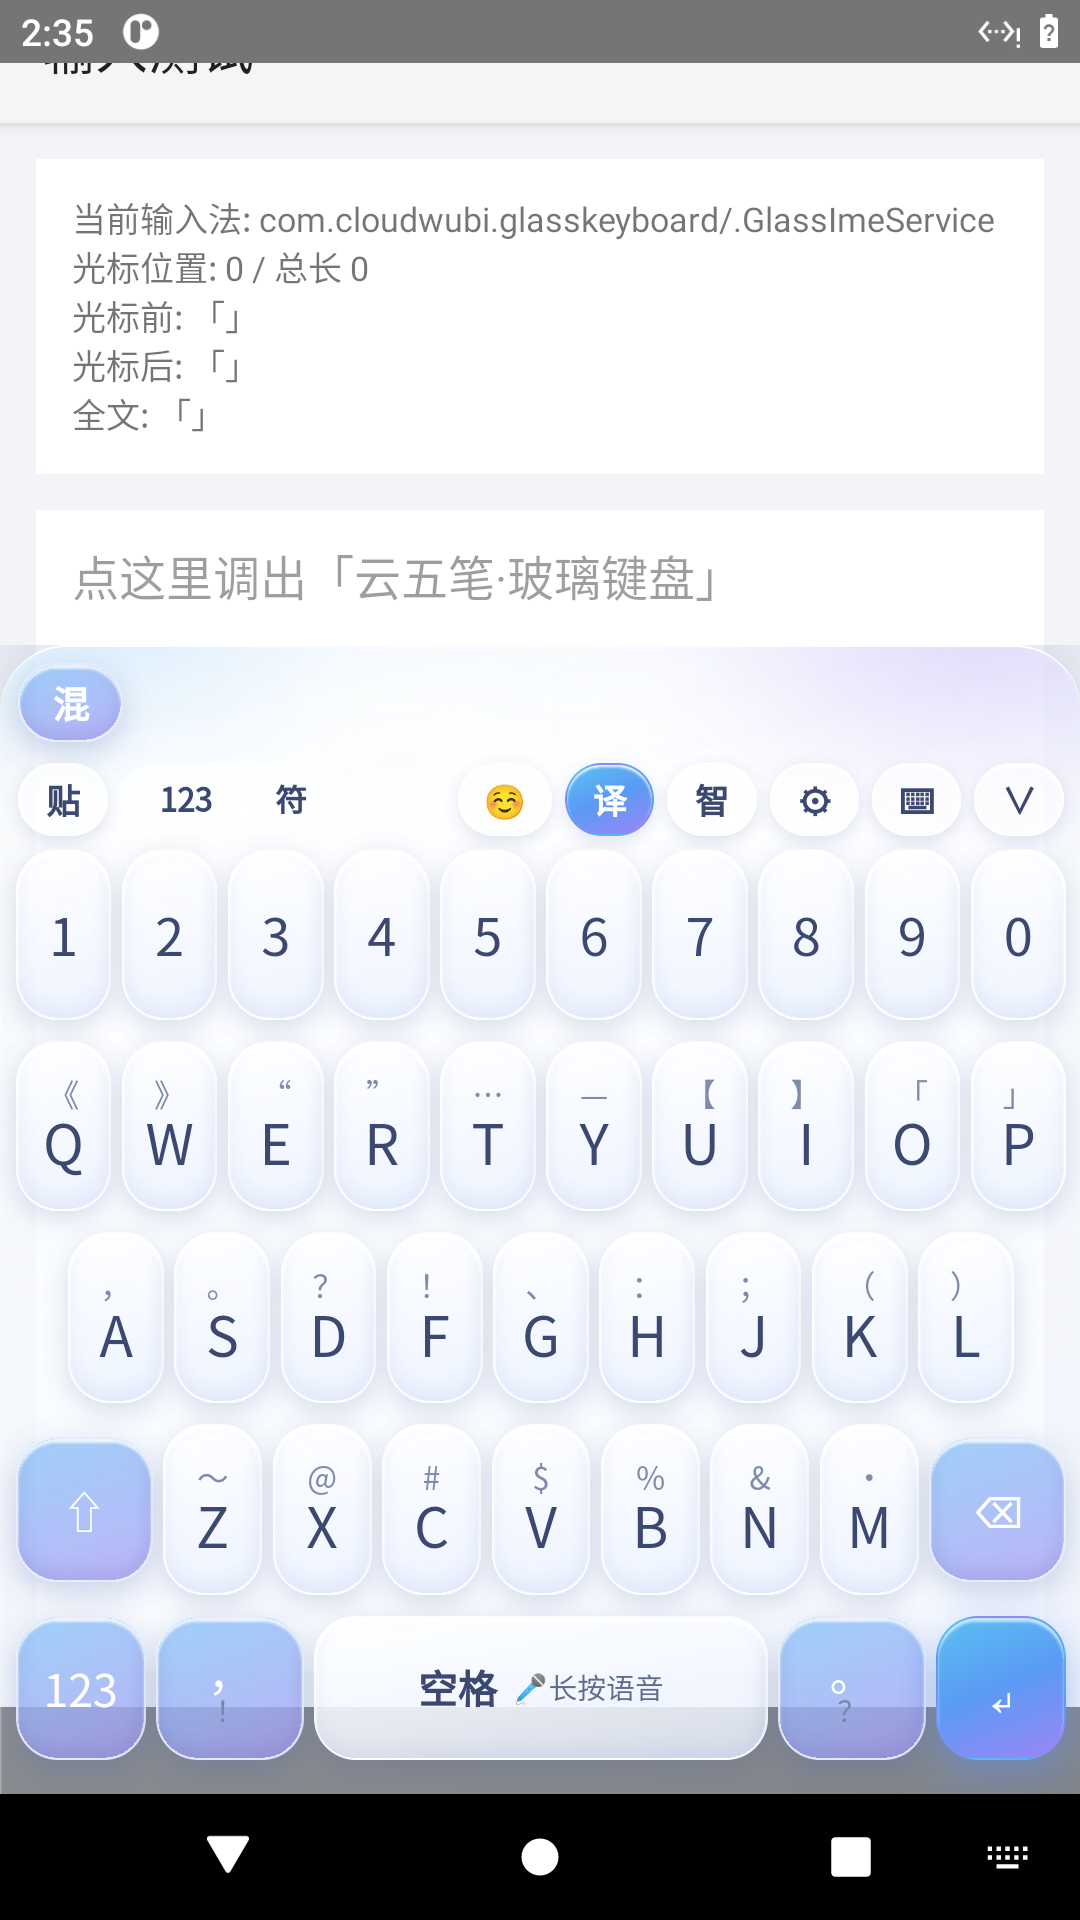
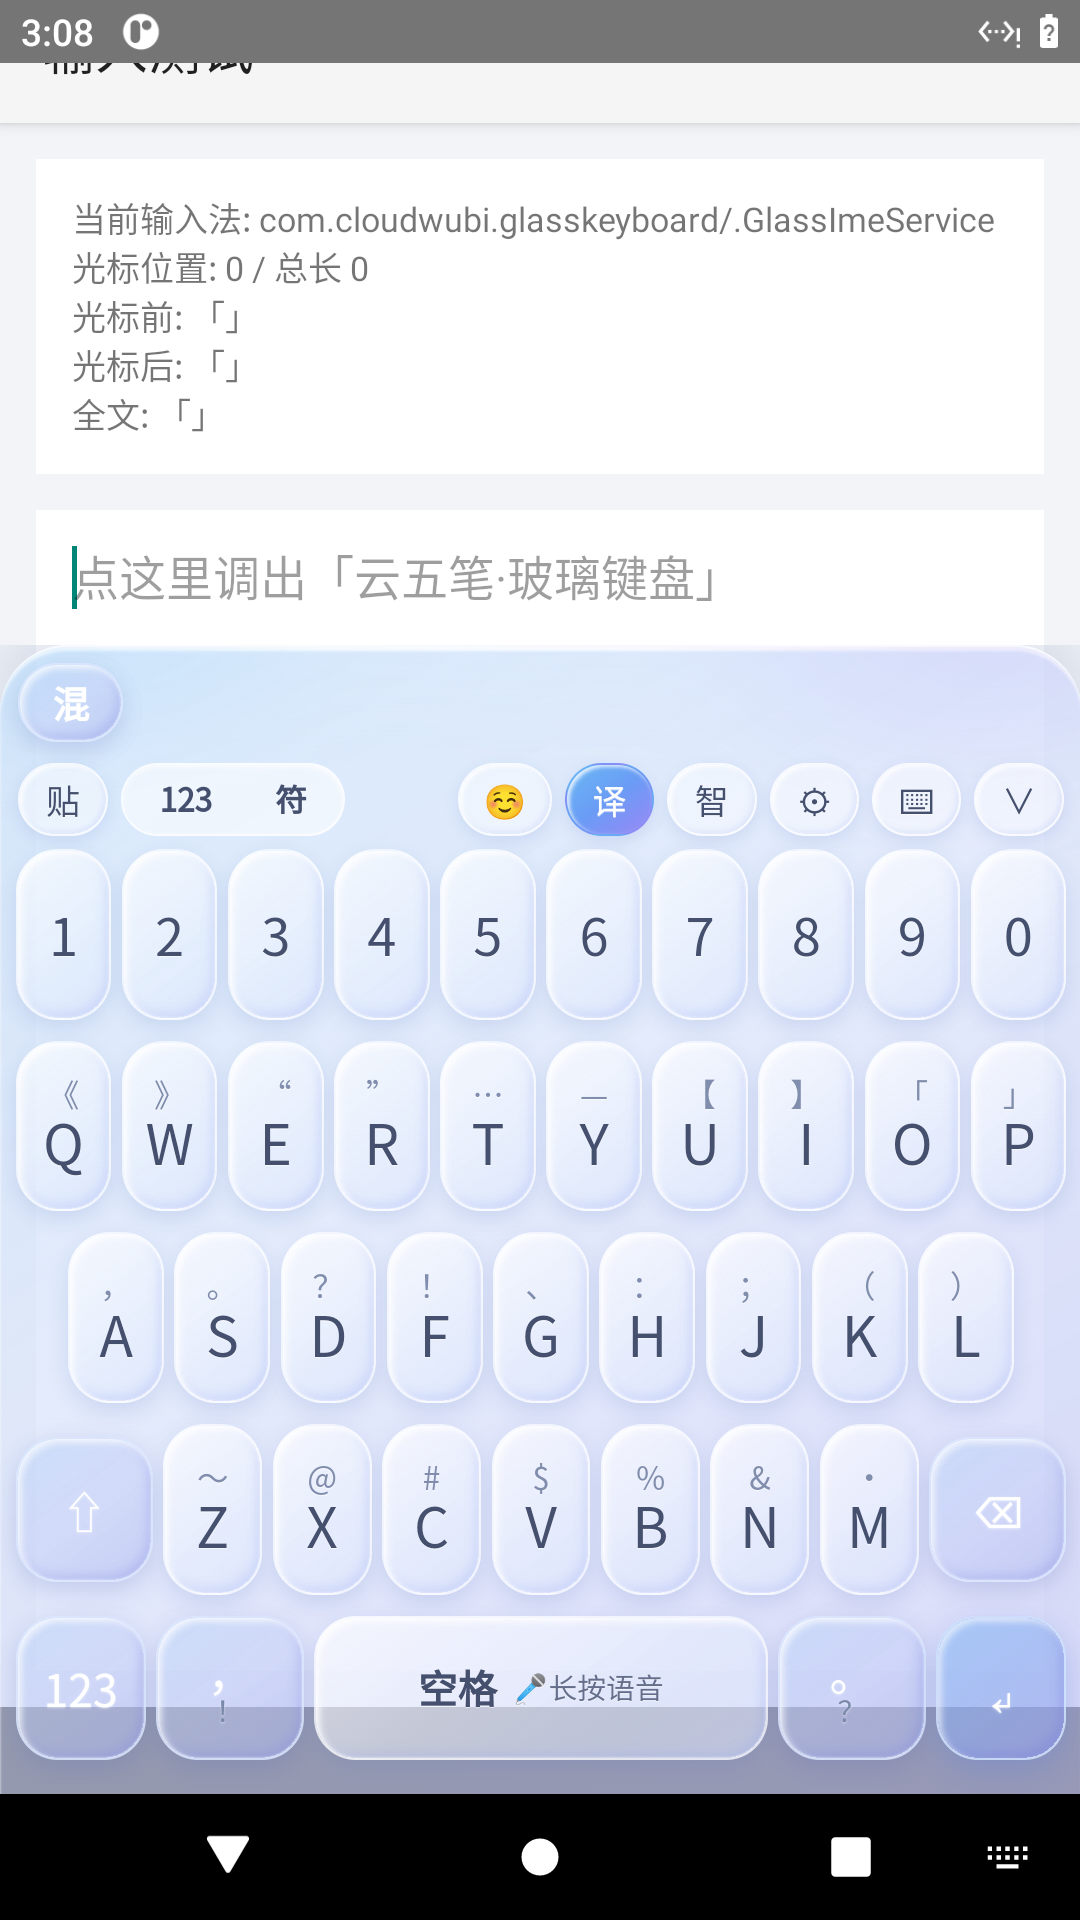
v2.3-lite: 按图一重做玻璃透光质感(一整块玻璃板切割，左上高光右下淡蓝紫透光)；候选/算式玻璃底板；修正低透明渐变SwiftShader不光栅化

diff --git a/app/src/main/assets/web/style.css b/app/src/main/assets/web/style.css
@@ -7,24 +7,49 @@ body { background: transparent; }
 button { border: none; background: none; font-family: inherit; cursor: pointer; color: inherit; touch-action: manipulation; }
 
 :root {
-  /* 浅色清透基底：半透明白，叠加后方 App 仍保持明亮；顶部亮描边 */
-  --kb-bg: linear-gradient(168deg, rgba(255,255,255,.66), rgba(238,244,255,.54));
-  --kb-border: rgba(255,255,255,.85);
-  /* 果冻白键：顶部更亮、底部淡蓝紫的高透渐变 */
-  --key-bg: linear-gradient(170deg, rgba(255,255,255,.94), rgba(234,241,255,.80));
-  --key-bg2: linear-gradient(170deg, rgba(226,237,255,.88), rgba(210,224,250,.74));
-  /* 功能键：淡蓝紫清透彩色玻璃，白字 */
-  --fn-bg: linear-gradient(160deg, rgba(140,198,248,.82), rgba(168,158,244,.76));
-  --fn-border: rgba(255,255,255,.7);
-  --key-fg: #3b4970;
-  --key-fg-soft: #7785a8;
+  /* v2.3 图一质感：一整块淡蓝→淡紫磨砂玻璃板，按键是不同透明度的玻璃切割，光源恒在左上 */
+  /* 整块键盘底板：左上淡蓝 → 右下淡紫的半透明磨砂渐变 */
+  --kb-bg: linear-gradient(150deg, rgba(201,226,250,.74) 0%, rgba(214,225,250,.68) 44%, rgba(204,206,247,.74) 100%);
+  --kb-border: rgba(255,255,255,.8);
+  /* 主键（字母/数字）：透明磨砂水晶，左上高光、右下透出淡蓝紫 */
+  --key-bg: linear-gradient(143deg,
+    rgba(255,255,255,.62) 0%,
+    rgba(247,250,255,.48) 40%,
+    rgba(229,238,253,.50) 72%,
+    rgba(221,229,252,.57) 100%);
+  --key-bg2: linear-gradient(143deg, rgba(228,239,252,.52) 0%, rgba(208,222,248,.50) 100%);
+  /* 功能键：同色系稍深一档的淡蓝紫玻璃（仍透明），白字细线条 */
+  --fn-bg: linear-gradient(143deg,
+    rgba(182,210,247,.50) 0%,
+    rgba(192,202,246,.46) 52%,
+    rgba(178,186,239,.56) 100%);
+  --fn-border: rgba(224,235,255,.72);
+  /* 回车/确认：再深半档的蓝紫玻璃（保持透明磨砂、光影一致） */
+  --enter-bg: linear-gradient(143deg, rgba(132,184,244,.62) 0%, rgba(150,160,236,.60) 100%);
+  --key-fg: #45506e;
+  --key-fg-soft: #7a88a9;
   --accent: #4a9bf0;
   --accent2: #5cc8f2;
-  --accent-grad: linear-gradient(158deg, #5cc0f2 0%, #5a9bf5 48%, #9a86f5 100%);
-  --line: rgba(150,170,220,.35);
-  --cand-bg: linear-gradient(170deg, rgba(255,255,255,.92), rgba(232,240,255,.76));
-  --shadow-key: 0 3px 10px rgba(70,90,150,.20), inset 0 1.5px 1px rgba(255,255,255,1), inset 0 -3px 7px rgba(120,140,210,.12);
-  --shadow-fn: 0 4px 12px rgba(80,100,170,.28), inset 0 1.5px 1px rgba(255,255,255,.8), inset 0 -3px 7px rgba(90,90,180,.18);
+  --accent-grad: linear-gradient(143deg, #6ab8f4 0%, #6a9cf5 50%, #9a86f5 100%);
+  --line: rgba(130,150,214,.32);
+  /* 候选 / 玻璃底板（非纯白） */
+  --cand-bg: linear-gradient(143deg, rgba(255,255,255,.44), rgba(224,234,252,.38));
+  --glass-bar: linear-gradient(143deg, rgba(255,255,255,.40), rgba(219,231,251,.36));
+  /* 统一玻璃阴影：底部同色悬浮投影 + 左上内高光 + 右下内透淡蓝紫 + 细亮内描边 */
+  --shadow-key:
+    0 3px 8px rgba(96,120,190,.18),
+    inset 1.5px 1.5px 2.5px rgba(255,255,255,.85),
+    inset -1.5px -2px 4px rgba(140,160,240,.22),
+    inset 0 0 0 .5px rgba(255,255,255,.34);
+  --shadow-fn:
+    0 3px 9px rgba(90,110,185,.24),
+    inset 1.5px 1.5px 2.5px rgba(255,255,255,.7),
+    inset -1.5px -2px 4px rgba(120,130,225,.26),
+    inset 0 0 0 .5px rgba(235,242,255,.4);
+  --shadow-enter:
+    0 4px 12px rgba(90,130,220,.34),
+    inset 1.5px 1.5px 2.5px rgba(255,255,255,.6),
+    inset -1.5px -2px 4px rgba(110,120,220,.3);
   --radius-key: 16px;
   --key-gap: 4px;
   --row-gap: 8px;
@@ -81,7 +106,7 @@ button { border: none; background: none; font-family: inherit; cursor: pointer; 
     radial-gradient(180px 110px at 14% 30%, rgba(150,205,248,.6), transparent 70%),
     radial-gradient(200px 120px at 48% 12%, rgba(200,225,255,.5), transparent 70%),
     radial-gradient(190px 115px at 84% 34%, rgba(178,168,246,.62), transparent 70%);
-  filter: blur(18px); opacity: .8; pointer-events: none; z-index: 0;
+  filter: blur(18px); opacity: .45; pointer-events: none; z-index: 0;
 }
 #kb.theme-dark::before, #kb.theme-neon::before { opacity: .35; filter: blur(20px); }
 #kb.theme-neon::before {
@@ -132,9 +157,10 @@ body.preview #testInput { position: static; opacity: .9; margin: 4px 8px; width:
 .tfill { flex: 1; }
 .tbtn {
   min-width: 34px; height: 28px; padding: 0 9px; border-radius: 14px; font-size: 13px; font-weight: 700;
-  color: var(--key-fg); background: rgba(255,255,255,.6); border: 1px solid rgba(255,255,255,.7);
-  display: flex; align-items: center; justify-content: center;
-  box-shadow: 0 2px 6px rgba(80,100,160,.16), inset 0 1px 1px rgba(255,255,255,.95);
+  color: var(--key-fg); background: rgba(255,255,255,.46); border: 1px solid rgba(255,255,255,.55);
+  display: flex; align-items: center; justify-content: center; font-weight: 600;
+  box-shadow: 0 2px 6px rgba(96,120,190,.16), inset 1px 1px 1.5px rgba(255,255,255,.8), inset -1px -1px 2px rgba(140,160,240,.16);
+  text-shadow: 0 .5px 0 rgba(255,255,255,.5);
 }
 .tbtn.on { background: var(--accent-grad); color: #fff; border-color: transparent; }
 
@@ -162,9 +188,10 @@ body.preview #testInput { position: static; opacity: .9; margin: 4px 8px; width:
 .key {
   flex: 1; min-width: 0; border-radius: var(--radius-key);
   background: var(--key-bg); color: var(--key-fg);
-  font-weight: 600; position: relative;
-  border: 1px solid rgba(255,255,255,.75);
+  font-weight: 500; position: relative;
+  border: 1px solid rgba(255,255,255,.55);
   box-shadow: var(--shadow-key);
+  text-shadow: 0 .5px 0 rgba(255,255,255,.55);
   display: flex; align-items: center; justify-content: center;
   /* 不静态 translateZ：软件GPU(SwiftShader)下「渐变背景+独立合成层」首次光栅化会透明；
      按压 scale 由真机硬件GPU自动提升合成层，软件GPU在父层统一光栅化，两边都正常 */
@@ -185,8 +212,8 @@ body.preview #testInput { position: static; opacity: .9; margin: 4px 8px; width:
 #row3 .key.fn { height: var(--fs); align-self: center; }
 #row4 .key { height: var(--fs); }
 
-.key.fn { flex: 1.4; background: var(--fn-bg); font-size: 17px; color: #fff; box-shadow: var(--shadow-fn); border: 1px solid var(--fn-border); }
-.key.enter { flex: 1.4; background: var(--accent-grad); color: #fff; font-size: 21px; border-color: transparent; box-shadow: 0 5px 16px rgba(90,140,240,.5), inset 0 1.5px 1px rgba(255,255,255,.65); }
+.key.fn { flex: 1.4; background: var(--fn-bg); font-size: 17px; font-weight: 500; color: #fff; box-shadow: var(--shadow-fn); border: 1px solid var(--fn-border); text-shadow: 0 .5px 1px rgba(255,255,255,.5); }
+.key.enter { flex: 1.4; background: var(--enter-bg); color: #fff; font-size: 21px; font-weight: 500; border: 1px solid rgba(220,235,255,.7); box-shadow: var(--shadow-enter); text-shadow: 0 .5px 1px rgba(255,255,255,.5); }
 /* Shift：lower 小写态高亮 */
 .key.shift-lower { background: var(--accent-grad); color: #fff; border-color: transparent; box-shadow: 0 4px 14px rgba(90,140,240,.5); }
 #space { flex: 5; font-size: 15px; font-weight: 700; color: var(--key-fg); }
@@ -206,23 +233,25 @@ body.preview #testInput { position: static; opacity: .9; margin: 4px 8px; width:
 #calcbar { flex-shrink: 0; display: flex; flex-direction: row; align-items: stretch; margin: 2px 0 7px; gap: 6px; }
 .calc-expr, .calc-res {
   text-align: right; padding: 4px 10px; border-radius: 11px;
-  font-size: 14px; color: var(--key-fg); background: rgba(255,255,255,.62);
-  border: 1px solid rgba(255,255,255,.7); min-height: 32px;
+  font-size: 14px; color: var(--key-fg); background: var(--glass-bar);
+  border: 1px solid rgba(255,255,255,.5); min-height: 32px;
   display: flex; align-items: center; justify-content: flex-end;
-  box-shadow: inset 0 1px 1px rgba(255,255,255,.9);
+  box-shadow: inset 1px 1px 1.5px rgba(255,255,255,.6), inset -1px -1px 2px rgba(140,160,240,.18);
+  text-shadow: 0 .5px 0 rgba(255,255,255,.5);
 }
 .calc-expr { flex: 5; }
 .calc-res { flex: 1; justify-content: center; min-width: 52px; font-size: 19px; font-weight: 800; color: var(--accent); }
 #npGrid { flex: 1; display: grid; grid-template-columns: .9fr repeat(3, 1fr) .9fr; grid-template-rows: 1fr 1fr 1fr var(--fs); gap: 5px; min-height: 0; }
 .np-key {
   border-radius: var(--radius-key); background: var(--key-bg); color: var(--key-fg);
-  font-size: 22px; font-weight: 700; display: flex; align-items: center; justify-content: center;
-  border: 1px solid rgba(255,255,255,.75); box-shadow: var(--shadow-key);
+  font-size: 22px; font-weight: 600; display: flex; align-items: center; justify-content: center;
+  border: 1px solid rgba(255,255,255,.55); box-shadow: var(--shadow-key);
+  text-shadow: 0 .5px 0 rgba(255,255,255,.55);
   transition: transform .09s cubic-bezier(.34,1.56,.64,1), background .12s;
 }
 .np-key.press, .np-key:active { transform: scale(.9); background: var(--key-bg2); box-shadow: inset 0 2px 9px rgba(120,150,220,.26); }
-.np-key.fnr { background: var(--fn-bg); font-size: 18px; color: #fff; box-shadow: var(--shadow-fn); border: 1px solid var(--fn-border); }
-.np-key.enter { background: var(--accent-grad); color: #fff; border-color: transparent; font-size: 23px; box-shadow: 0 5px 16px rgba(90,140,240,.5), inset 0 1.5px 1px rgba(255,255,255,.65); }
+.np-key.fnr { background: var(--fn-bg); font-size: 18px; font-weight: 500; color: #fff; box-shadow: var(--shadow-fn); border: 1px solid var(--fn-border); text-shadow: 0 .5px 1px rgba(255,255,255,.5); }
+.np-key.enter { background: var(--enter-bg); color: #fff; border: 1px solid rgba(220,235,255,.7); font-size: 23px; font-weight: 500; box-shadow: var(--shadow-enter); text-shadow: 0 .5px 1px rgba(255,255,255,.5); }
 .np-opcol { display: flex; flex-direction: column; gap: 4px; border-radius: var(--radius-key); background: var(--fn-bg); border: 1px solid var(--fn-border); box-shadow: var(--shadow-fn); padding: 4px; min-height: 0; }
 .np-opsub { flex: 1; min-height: 0; border-radius: 11px; font-size: 20px; font-weight: 700; color: #fff; display: flex; align-items: center; justify-content: center; }
 .np-opsub.press, .np-opsub:active { background: rgba(255,255,255,.28); transform: scale(.92); box-shadow: inset 0 2px 8px rgba(255,255,255,.35); }
@@ -244,14 +273,16 @@ body.pw-mode #trBtn, body.pw-mode .tbtn[data-act="phrase"] { display: none; }
 .panel-side { width: var(--fs); flex-shrink: 0; display: flex; flex-direction: column; gap: var(--row-gap); }
 .side-del {
   flex: 1; border-radius: var(--radius-key); background: var(--fn-bg); color: #fff;
-  font-size: 22px; border: 1px solid var(--fn-border); box-shadow: var(--shadow-fn);
+  font-size: 22px; font-weight: 500; border: 1px solid var(--fn-border); box-shadow: var(--shadow-fn);
+  text-shadow: 0 .5px 1px rgba(255,255,255,.5);
   display: flex; align-items: center; justify-content: center;
 }
 .side-del.press, .side-del:active { transform: scale(.92); }
 .confirm {
   height: var(--fs); flex-shrink: 0; border-radius: var(--radius-key);
-  background: var(--accent-grad); color: #fff; font-size: 16px; font-weight: 700;
-  border: 1px solid transparent; box-shadow: 0 5px 16px rgba(90,140,240,.5), inset 0 1.5px 1px rgba(255,255,255,.6);
+  background: var(--enter-bg); color: #fff; font-size: 16px; font-weight: 500;
+  border: 1px solid rgba(220,235,255,.7); box-shadow: var(--shadow-enter);
+  text-shadow: 0 .5px 1px rgba(255,255,255,.5);
   display: flex; align-items: center; justify-content: center;
 }
 .confirm.press, .confirm:active { transform: scale(.92); }

diff --git a/app/src/main/assets/web/app.js b/app/src/main/assets/web/app.js
@@ -1262,7 +1262,7 @@ function applySettings() {
 function collectDiag() {
   var d = {};
   bridge(function (b) { if (b.diagnostics) { try { d = JSON.parse(b.diagnostics()); } catch (e) {} } });
-  d.app = "云五笔·玻璃键盘 lite v2.2";
+  d.app = "云五笔·玻璃键盘 lite v2.3";
   d.mode = state.mode; d.panel = state.panel; d.shift = state.shift;
   d.clips = state.clips.length;
   d.settings = settings;
@@ -1393,7 +1393,7 @@ function bindStatic() {
   });
   $("#diagShare").addEventListener("click", function () {
     var txt = collectDiag();
-    bridge(function (b) { b.share("【云五笔·玻璃键盘 v2.2 问题反馈】\n" + txt); });
+    bridge(function (b) { b.share("【云五笔·玻璃键盘 v2.3 问题反馈】\n" + txt); });
     if (!isApk()) toast("真机上可调起微信/QQ/邮件分享");
   });
 }
@@ -1423,7 +1423,7 @@ function applyLayout() {
 window.addEventListener("resize", applyLayout);
 
 function init() {
-  L("app init v2.2, bridge=" + isApk());
+  L("app init v2.3, bridge=" + isApk());
   try {
     SOFT_GPU = !!(isApk() && window.AndroidBridge.softGpu && window.AndroidBridge.softGpu());
     if (SOFT_GPU) {
@@ -1444,7 +1444,7 @@ function init() {
   applyLayout();
   setTimeout(applyLayout, 350);   // 大词库解析后窗口稳定，补报高度（治首次 insets=0）
   setTimeout(applyLayout, 1000);
-  $("#verLabel").textContent = "云五笔·玻璃键盘 lite v2.2 · 词库源自 极点五笔(Apache-2.0) 与 rime-wubi(LGPL-3.0)";
+  $("#verLabel").textContent = "云五笔·玻璃键盘 lite v2.3 · 词库源自 极点五笔(Apache-2.0) 与 rime-wubi(LGPL-3.0)";
   if (!isApk()) {
     document.body.classList.add("preview");
     toast("浏览器预览：点击输入框获得焦点后试用");

diff --git a/app/src/main/java/com/cloudwubi/glasskeyboard/GlassImeService.java b/app/src/main/java/com/cloudwubi/glasskeyboard/GlassImeService.java
@@ -611,7 +611,7 @@ public class GlassImeService extends InputMethodService {
         public String diagnostics() {
             try {
                 org.json.JSONObject o = new org.json.JSONObject();
-                o.put("app", "2.2-lite");
+                o.put("app", "2.3-lite");
                 o.put("model", Build.MANUFACTURER + " " + Build.MODEL);
                 o.put("sdk", Build.VERSION.SDK_INT);
                 o.put("rel", Build.VERSION.RELEASE);

diff --git a/CHANGELOG.md b/CHANGELOG.md
@@ -2,6 +2,17 @@
 
 本项目所有显著变更均记录于此。版本号采用语义化版本，标注日期为发布日（UTC+8）。
 
+## [2.3-lite] - 2026-09-20
+
+### 视觉（按图一重做玻璃透光质感）
+- **整块键盘回归「一块完整玻璃板切割」**：底板淡蓝（左上）→ 淡紫（右下）柔和渐变；所有按键为透明磨砂水晶，光源恒在左上角——左上亮白高光，右下边缘透出淡蓝→淡紫渐变，底部同色悬浮投影。
+- 主键（字母 / 数字）最通透、深灰细体字（文字带轻微白光泽）；功能键（Shift / 退格 / 运算符 / 123 / 标点）同材质、淡蓝紫玻璃稍深一档、白色细线条；回车 / 确认再深半档，仍透明磨砂、光影一致。
+- 候选栏、算式区改玻璃底板（不再纯白）；顶部功能键更通透偏白。
+- 杜绝纯色填充与塑料感，按键与背景配色完全统一。
+
+### 软件 GPU 适配
+- 修正低透明（alpha < .46）渐变在 SwiftShader 下不光栅化、导致按键整组透明：统一玻璃渐变各段不透明度阈值，真机与模拟器呈现一致。
+
 ## [2.2-lite] - 2026-09-20
 
 ### 视觉（按图6 回归浅色清透玻璃）

diff --git a/README.md b/README.md
@@ -42,7 +42,7 @@
 ### 安全与触感
 - **密码框适配**：文本密码 / 数字密码下不自动大写首字母、不读取剪贴板、不做语义泄露。
 - 按键触点视觉反馈 + **轻微震动**（可在设置中关闭）。
-- 多套玻璃主题：浅色清透玻璃（v2.2 起默认）、深色鲜艳果冻、深空冰蓝、幻紫全息。
+- 多套玻璃主题：浅色清透玻璃（v2.2 起默认，v2.3 升级为图一透光质感）、深色鲜艳果冻、深空冰蓝、幻紫全息。
 
 ---
 
